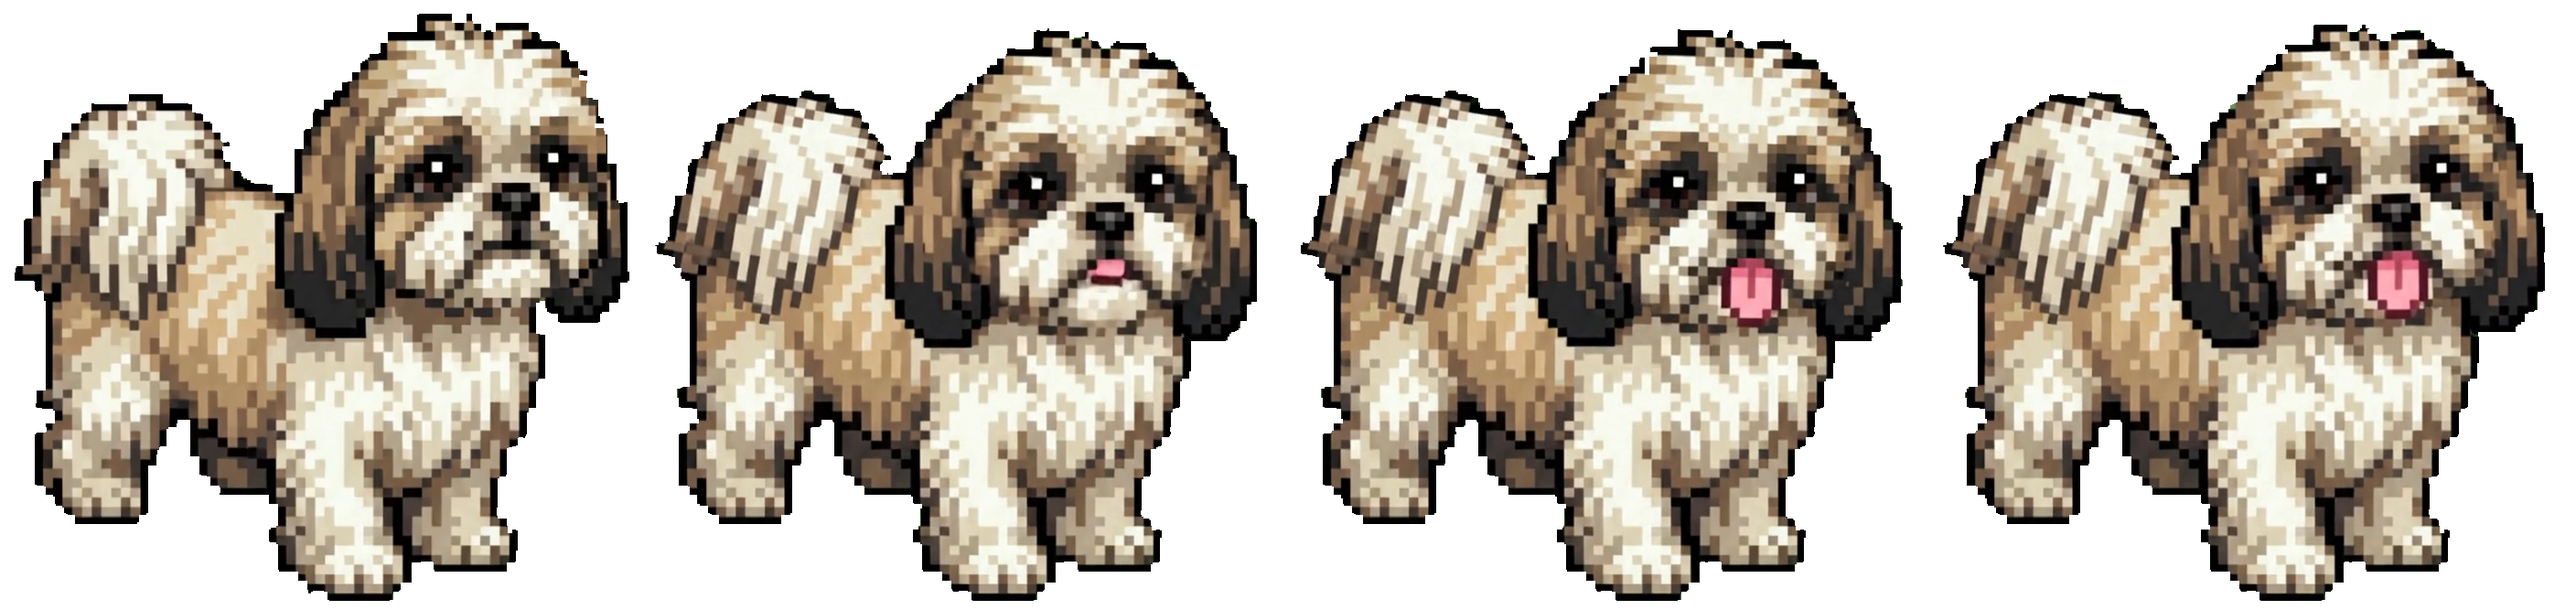
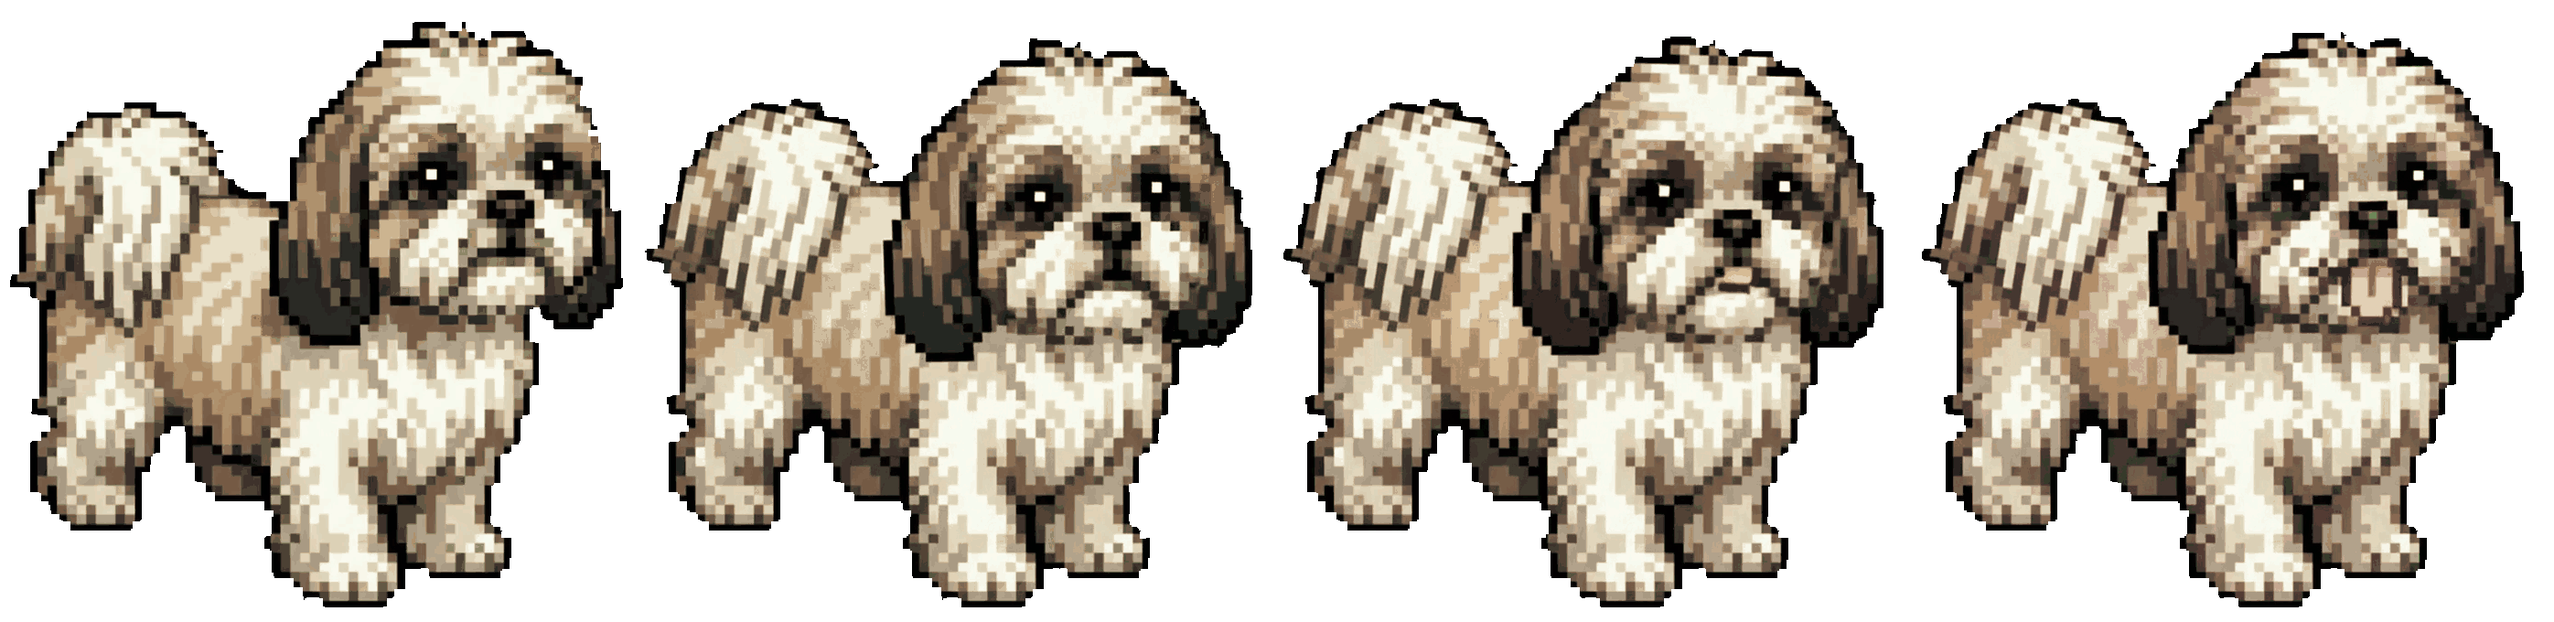
Adding in some compression to reduce asset size

Changed region(s): [[0.0, 0.0, 0.9971, 0.9895], [0.187, 0.5997, 0.2181, 0.6297]]

diff --git a/app/processing.py b/app/processing.py
@@ -1,5 +1,6 @@
 import numpy as np
 import cv2
+from PIL import Image
 
 class ImageProcessor:
     def __init__(self):
@@ -14,6 +15,9 @@ class ImageProcessor:
         self.target_color_rgb = (0, 255, 0)
         self.tolerance = 30
         self.edge_trim = 0
+        
+        # Compression (Color Quantization)
+        self.max_colors = 256 # 256 means no compression (standard 32-bit)
 
     def set_crop_margins(self, left, top, right, bottom):
         self.margin_left = left
@@ -27,6 +31,9 @@ class ImageProcessor:
         self.target_color_rgb = color_rgb
         self.tolerance = tolerance
         self.edge_trim = edge_trim
+
+    def set_compression(self, max_colors):
+        self.max_colors = max_colors
 
     def process_frame(self, frame: np.ndarray) -> np.ndarray:
         result = frame
@@ -46,7 +53,6 @@ class ImageProcessor:
             target_np = np.uint8([[self.target_color_rgb]])
             target_hsv = cv2.cvtColor(target_np, cv2.COLOR_RGB2HSV)[0][0]
             
-            # Create the raw color mask
             lower = np.array([
                 max(0, int(target_hsv[0]) - self.tolerance),
                 max(0, int(target_hsv[1]) - self.tolerance * 2),
@@ -55,28 +61,36 @@ class ImageProcessor:
             upper = np.array([min(180, int(target_hsv[0]) + self.tolerance), 255, 255], dtype=np.uint8)
             
             mask = cv2.inRange(hsv, lower, upper)
-            
-            # --- "Inside/Outside" Logic ---
-            # We want to identify the subject (foreground).
-            # The mask currently contains the background (1s) and subject (0s).
             foreground_mask = cv2.bitwise_not(mask)
-            
-            # Fill holes inside the subject so that inner green-ish pixels are ignored
-            # We find contours of the foreground and fill them.
             contours, _ = cv2.findContours(foreground_mask, cv2.RETR_EXTERNAL, cv2.CHAIN_APPROX_SIMPLE)
             
             solid_foreground = np.zeros_like(foreground_mask)
             cv2.drawContours(solid_foreground, contours, -1, 255, thickness=cv2.FILLED)
             
-            # Now solid_foreground is a clean "blob" of the subject.
-            # Edge Trim should only affect the boundary of this solid blob.
             if self.edge_trim > 0:
                 kernel = np.ones((3, 3), np.uint8)
                 solid_foreground = cv2.erode(solid_foreground, kernel, iterations=self.edge_trim)
             
-            # Create RGBA image using the solid filled mask
             rgba = cv2.cvtColor(result, cv2.COLOR_RGB2RGBA)
             rgba[:, :, 3] = solid_foreground
-            return rgba
+            result = rgba
         
+        # 3. Apply Compression (Color Quantization)
+        # We only apply if max_colors is less than 256
+        if self.max_colors < 256:
+            # Convert to PIL for quantization
+            if result.shape[2] == 4:
+                pil_img = Image.fromarray(result, 'RGBA')
+                # Quantize while preserving alpha
+                alpha = pil_img.getchannel('A')
+                # Convert to 'P' mode (indexed color)
+                quantized = pil_img.convert('RGB').quantize(colors=self.max_colors)
+                # Convert back to RGBA and re-apply original alpha
+                result_pil = quantized.convert('RGBA')
+                result_pil.putalpha(alpha)
+                result = np.array(result_pil)
+            else:
+                pil_img = Image.fromarray(result, 'RGB')
+                result = np.array(pil_img.quantize(colors=self.max_colors).convert('RGB'))
+                
         return result

diff --git a/app/ui.py b/app/ui.py
@@ -197,6 +197,7 @@ class MainWindow(QMainWindow):
     export_requested = pyqtSignal(str, int)
     add_current_frame_requested = pyqtSignal()
     multi_select_requested = pyqtSignal()
+    compression_changed = pyqtSignal(int)
 
     def __init__(self, on_open_file_callback):
         super().__init__()
@@ -334,6 +335,17 @@ class MainWindow(QMainWindow):
         self.cols_spin.setSpecialValueText("Auto")
         export_layout.addWidget(QLabel("Columns:"))
         export_layout.addWidget(self.cols_spin)
+        
+        export_layout.addWidget(QLabel("Color Limit (Compression):"))
+        self.compression_slider = QSlider(Qt.Orientation.Horizontal)
+        self.compression_slider.setRange(2, 256)
+        self.compression_slider.setValue(256)
+        self.compression_slider.setToolTip("Lower values reduce file size but lose color detail.")
+        self.compression_slider.valueChanged.connect(self._handle_compression_change)
+        export_layout.addWidget(self.compression_slider)
+        self.comp_label = QLabel("Mode: 32-bit (Original)")
+        export_layout.addWidget(self.comp_label)
+        
         self.export_button = QPushButton("Process & Export")
         self.export_button.setStyleSheet("background-color: #2c5a2c; font-weight: bold;")
         self.export_button.clicked.connect(self._handle_export)
@@ -405,7 +417,15 @@ class MainWindow(QMainWindow):
 
     def _handle_slider_change(self, v): self.frame_changed.emit(v)
 
-    def _handle_export(self): self.export_requested.emit(self.export_type_combo.currentText(), self.cols_spin.value())
+    def _handle_compression_change(self, val):
+        if val >= 256:
+            self.comp_label.setText("Mode: 32-bit (Original)")
+        else:
+            self.comp_label.setText(f"Mode: 8-bit ({val} colors)")
+        self.compression_changed.emit(val)
+
+    def _handle_export(self):
+        self.export_requested.emit(self.export_type_combo.currentText(), self.cols_spin.value())
 
     def update_preview(self, full, proc, cur, tot):
         self.current_frame_label.setText(f"Frame: {cur}/{tot-1}")

diff --git a/app/main.py b/app/main.py
@@ -33,6 +33,7 @@ class SpriteSpiteApp:
         self.ui.range_changed.connect(self.update_range)
         self.ui.crop_changed.connect(self.update_crop)
         self.ui.chroma_changed.connect(self.update_chroma)
+        self.ui.compression_changed.connect(self.update_compression)
         self.ui.export_requested.connect(self.handle_export)
         self.ui.add_current_frame_requested.connect(self.add_current_frame_to_list)
         self.ui.multi_select_requested.connect(self.open_multi_frame_dialog)
@@ -81,6 +82,10 @@ class SpriteSpiteApp:
             except ValueError:
                 continue
         return indices
+
+    def update_compression(self, max_colors):
+        self.processor.set_compression(max_colors)
+        self.seek_to_frame(self.current_frame_index)
 
     def handle_export(self, fmt_str, cols):
         # Determine which frames to export
